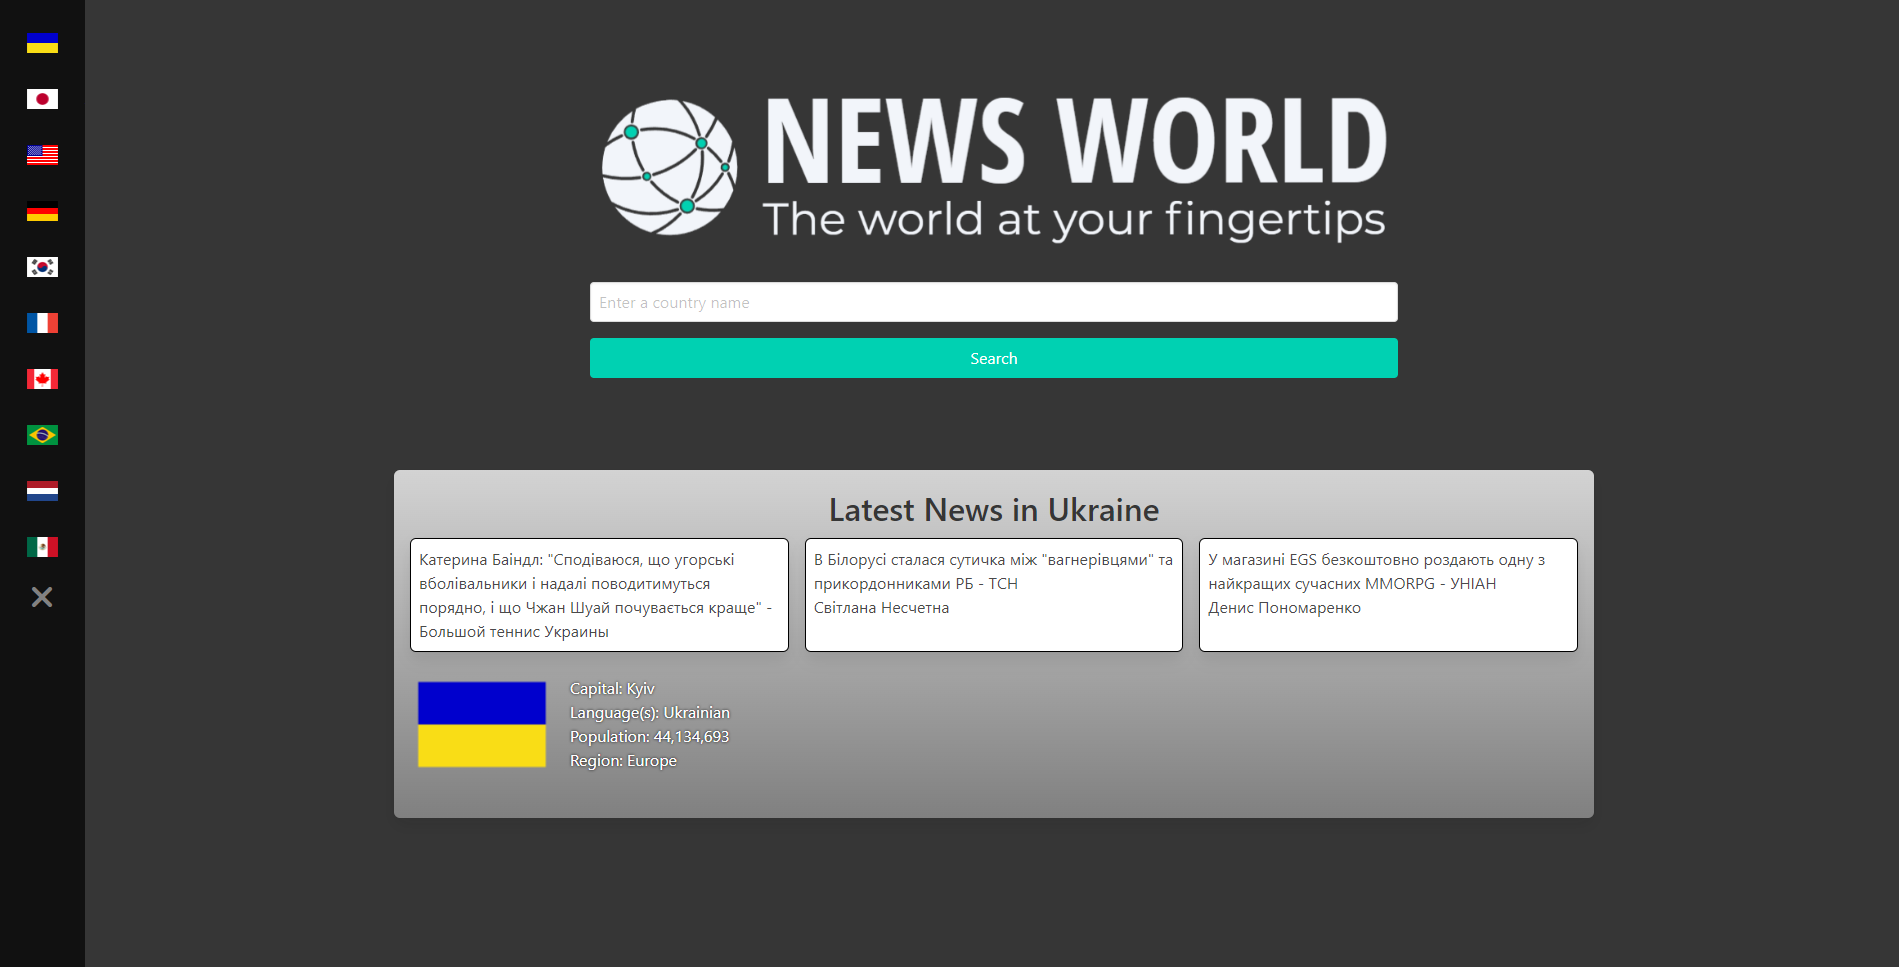
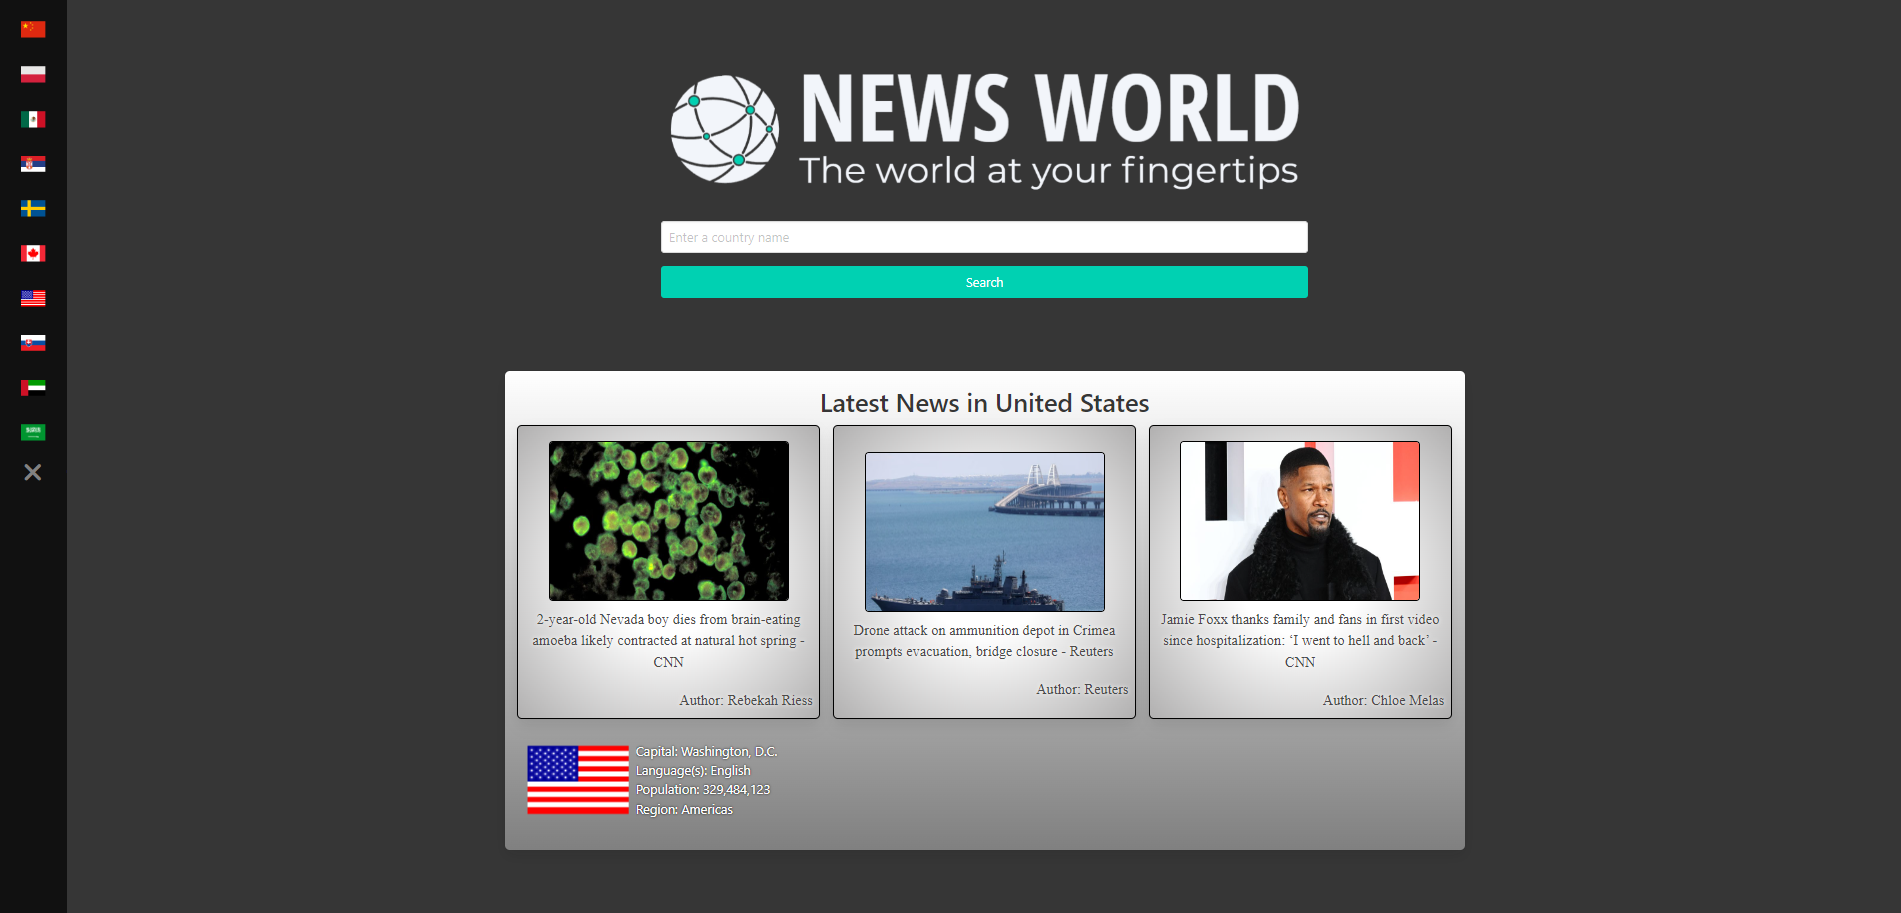
streamlined the README and corrected some markdown errors, added more recent screenshot

diff --git a/README.md b/README.md
@@ -1,33 +1,17 @@
 # [**News World**](https://ricadbur.github.io/world-news/)
 
-## Project description
-
-This application allows the user to search by country, and then displays news articles for that country.  It provides a drop-down menu of countries that have available news articles.  It also tracks the user's previous searches and displays them in a collapsable sidebar.
-
-## Installation
-
-N/A
+This application allows the user to search by country, and then displays news articles for that country.  It provides a drop-down menu of countries that have available news articles.  It also tracks the user's previous searches.
 
 ## Features
--Search by list of countried that News API provides articles for
--If a valid country value is not entered, a modal will activate displaying a help message
--When a valid country is entered, 3 news articles are displayed as well as country information
--When a new country is searched that is not currently in recent searches, it will be added with a small icon of its flag and can be clicked to view again
--When an article is displayed, information about that aricle is shown in the news card, and the card can be clicked to open a new window to that article
+- Search by list of countries that News API provides articles for
+- If a valid country value is not entered, a modal will activate displaying a help message
+- When a valid country is entered, 3 news articles are displayed as well as country information
+- When a new country is searched that is not currently in recent searches, it will be added to the search history sidebar with a small icon of its flag and can be clicked to view again
+- When an article is displayed, a brief summary of that aricle is shown in the news card, and the card can be clicked to open the full article on it's website of origin
 
-## Documentation
+---
 
-Screenshot:
-
-![Screenshot]![image](https://github.com/RicAdbur/world-news/assets/123577761/a88ecc8a-722b-4f93-b5c1-916f6455c383)
-
-## Contributing
-
-This is a class project, so no pull requests will be accepted except those by universty and approved staff
-
-Powered by [REST Coutries API](https://restcountries.com/) and [NewsAPI](https://https://newsapi.org/)
-
-Collapsable sidebar modified from design by [Dalis Chan](https://github.com/dalisc/hover-collapsible-sidebar)
+![screenshot](./assets/images/NewsWorldScreenshot.png)
 
 ## License
 
@@ -52,3 +36,8 @@ AUTHORS OR COPYRIGHT HOLDERS BE LIABLE FOR ANY CLAIM, DAMAGES OR OTHER
 LIABILITY, WHETHER IN AN ACTION OF CONTRACT, TORT OR OTHERWISE, ARISING FROM,
 OUT OF OR IN CONNECTION WITH THE SOFTWARE OR THE USE OR OTHER DEALINGS IN THE
 SOFTWARE.
+
+---
+Powered by [REST Coutries API](https://restcountries.com/) and [NewsAPI](https://https://newsapi.org/)
+
+Collapsable sidebar modified from design by [Dalis Chan](https://github.com/dalisc/hover-collapsible-sidebar)
